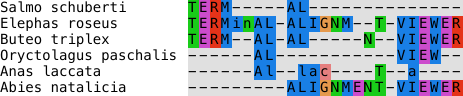
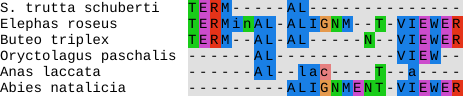
better title graphics

diff --git a/doc/manual.md b/doc/manual.md
@@ -15,17 +15,12 @@ bibliography: "termal.bib"
 toc: true
 header-includes:
   - |
-    \usepackage{etoolbox}
+    \usepackage{graphics}
     \makeatletter
     \apptocmd{\maketitle}{%
       \par\bigskip
       \begin{center}
-      \ttfamily
-      TERM-----AL--------------\\
-      TERMinAL-ALIGNM--T-VIEWER\\
-      TERM--AL-AL-----N--VIEWER\\
-      ------AL-----------VIEW--\\
-      ---------ALIGNMENT-VIEWER
+      \includegraphics{title.pdf}
       \end{center}
       \bigskip
     }{}{}
